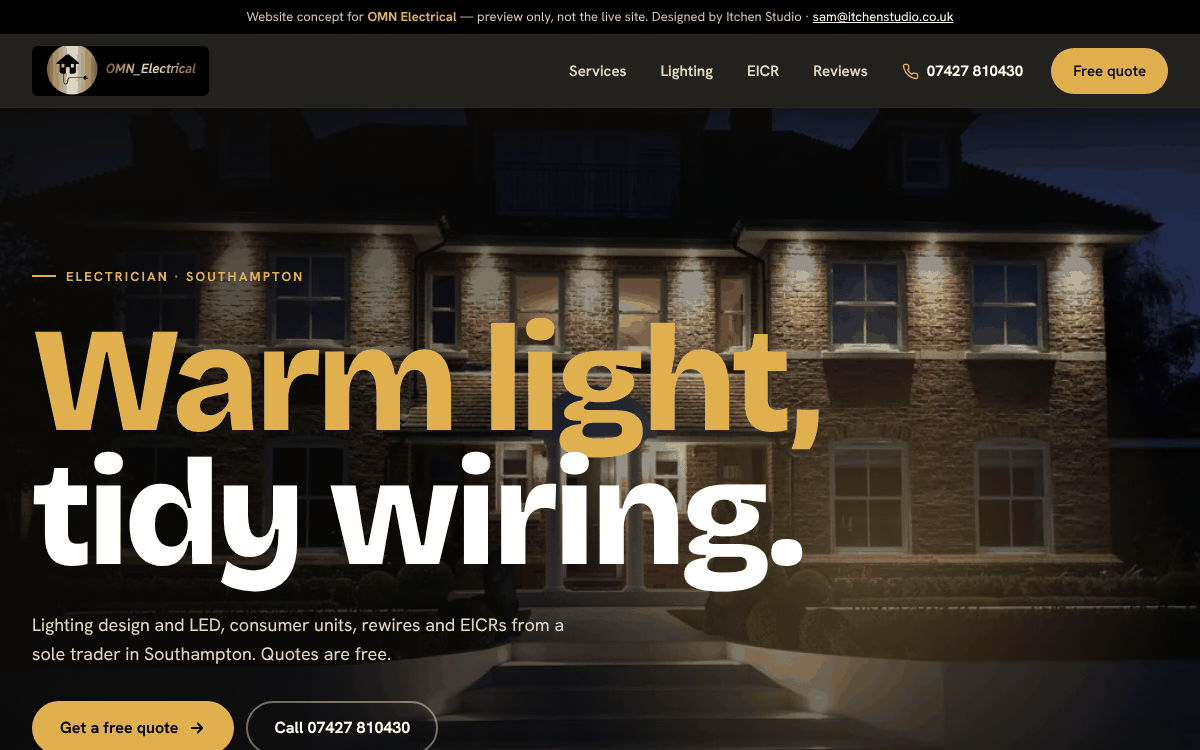
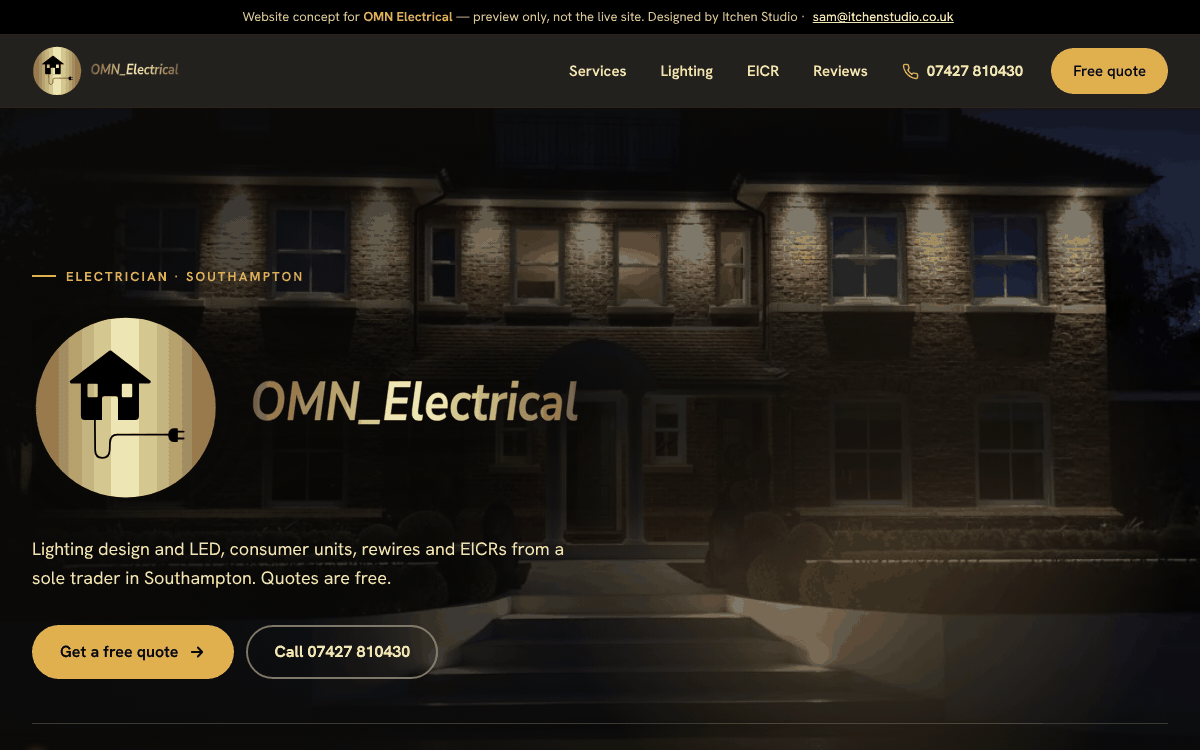
Mock-up: OMN Electrical v3
Claude-Session: https://claude.ai/code/session_01McDHMUuHo75vrRWWRQLPVd

diff --git a/omn-electrical-k6ecjr/index.html b/omn-electrical-k6ecjr/index.html
@@ -1,5 +1,7 @@
 <!--
-ART DIRECTION BRIEF - OMN Electrical, v2
+ART DIRECTION BRIEF - OMN Electrical, v3
+
+v3 CHANGE (Sam's note: "Don't use a big slogan"; new logo uploaded): the big slogan is gone from the hero. The supplied gold logo is now the hero mark (inside the h1) with the small descriptive line under it. Header and footer use the same SVG logo. Everything below is the v2 brief; the old headline pick no longer appears on the page.
 
 ONE IDEA: Lighting you can see being switched on. The business is known for finished lighting schemes, so the whole page is a dark house that is lit one room at a time.
 
@@ -94,7 +96,7 @@ h2.big{font-size:clamp(42px,6.6vw,96px)}
 .top.away{transform:translateY(-100%)}
 .top .wrap{display:flex;align-items:center;justify-content:space-between;gap:16px;height:72px}
 .brand{display:flex;align-items:center;text-decoration:none;min-height:44px}
-.brand img{height:50px;width:auto;border-radius:6px}
+.brand img{height:50px;width:auto}
 nav.main{display:flex;align-items:center;gap:6px}
 nav.main a{text-decoration:none;font-weight:600;font-size:15px;padding:12px 14px;border-radius:999px;color:#e8e0cf;min-height:44px;display:inline-flex;align-items:center;transition:color .2s}
 nav.main a:not(.btn):hover{color:var(--gold)}
@@ -111,7 +113,10 @@ nav.main a.tel svg{width:17px;height:17px;color:var(--gold)}
 .hero::before{content:"";position:absolute;inset:0;z-index:-1;background:linear-gradient(180deg,#0b0a08cc 0%,#0b0a0800 28%,#0b0a0833 50%,#0b0a08f2 100%),linear-gradient(90deg,#0b0a08cc 0%,#0b0a0800 65%)}
 .hero .lamp{position:absolute;inset:0;z-index:-1;pointer-events:none;background:radial-gradient(520px circle at var(--mx,72%) var(--my,58%),#ffc86a47,#ffc86a00 62%);mix-blend-mode:screen;transition:opacity .6s}
 .hero .wrap{width:100%;padding-block:150px 52px}
-.hero h1{font-size:clamp(58px,12.4vw,196px);margin-top:30px;line-height:.9;max-width:8em}
+.hero h1{margin-top:30px;line-height:1;max-width:none}
+.hero h1{position:relative;isolation:isolate}
+.hero h1::before{content:"";position:absolute;inset:-70px -110px;z-index:-1;pointer-events:none;background:radial-gradient(closest-side,rgba(11,10,8,.9),rgba(11,10,8,.65) 60%,rgba(11,10,8,0))}
+.herologo{display:block;width:clamp(330px,46vw,660px);max-width:100%;height:auto;filter:drop-shadow(0 0 14px rgba(11,10,8,.95)) drop-shadow(0 0 44px rgba(11,10,8,.85)) drop-shadow(0 0 80px rgba(11,10,8,.7))}
 .hero h1 .ln{display:block;overflow:hidden;padding-bottom:.08em;margin-bottom:-.08em}
 .hero h1 .ln>span{display:inline-block}
 .hero h1 .gd{color:var(--gold)}
@@ -295,7 +300,7 @@ footer .cr{max-width:40em}
 
 <header class="top">
   <div class="wrap">
-    <a class="brand" href="#top" aria-label="OMN Electrical, back to the top"><img src="assets/logo.webp" width="492" height="139" alt="OMN Electrical logo"></a>
+    <a class="brand" href="#top" aria-label="OMN Electrical, back to the top"><img src="assets/logo.svg" width="418" height="141" alt="OMN Electrical logo"></a>
     <nav class="main" aria-label="Main">
       <a class="lnk" href="#services">Services</a>
       <a class="lnk" href="#lighting">Lighting</a>
@@ -313,7 +318,7 @@ footer .cr{max-width:40em}
   <div class="lamp" aria-hidden="true"></div>
   <div class="wrap">
     <span class="eyebrow" data-intro>Electrician &middot; Southampton</span>
-    <h1 id="h1"><span class="ln"><span class="gd">Warm light,</span></span><span class="ln"><span>tidy wiring.</span></span></h1>
+    <h1 id="h1"><span class="ln"><span><img class="herologo" src="assets/logo.svg" width="418" height="141" alt="OMN Electrical"></span></span></h1>
     <p class="lead" data-intro>Lighting design and LED, consumer units, rewires and EICRs from a sole trader in Southampton. Quotes are free.</p>
     <div class="ctas" data-intro>
       <a class="btn btn-gold" href="#quote">Get a free quote <svg viewBox="0 0 24 24" fill="none" stroke="currentColor" stroke-width="2.4" stroke-linecap="round" stroke-linejoin="round" aria-hidden="true"><path d="M5 12h14M13 6l6 6-6 6"/></svg></a>
@@ -509,7 +514,7 @@ footer .cr{max-width:40em}
 
 <footer>
   <div class="wrap">
-    <img src="assets/logo.webp" width="492" height="139" alt="OMN Electrical logo">
+    <img src="assets/logo.svg" width="418" height="141" alt="OMN Electrical logo">
     <p class="cr">OMN Electrical &middot; Southampton &amp; Hampshire &middot; 07427 810430</p>
     <p class="cr">Website concept by <a href="mailto:sam@itchenstudio.co.uk">Itchen Studio</a>. Preview only, not the live site.</p>
   </div>
